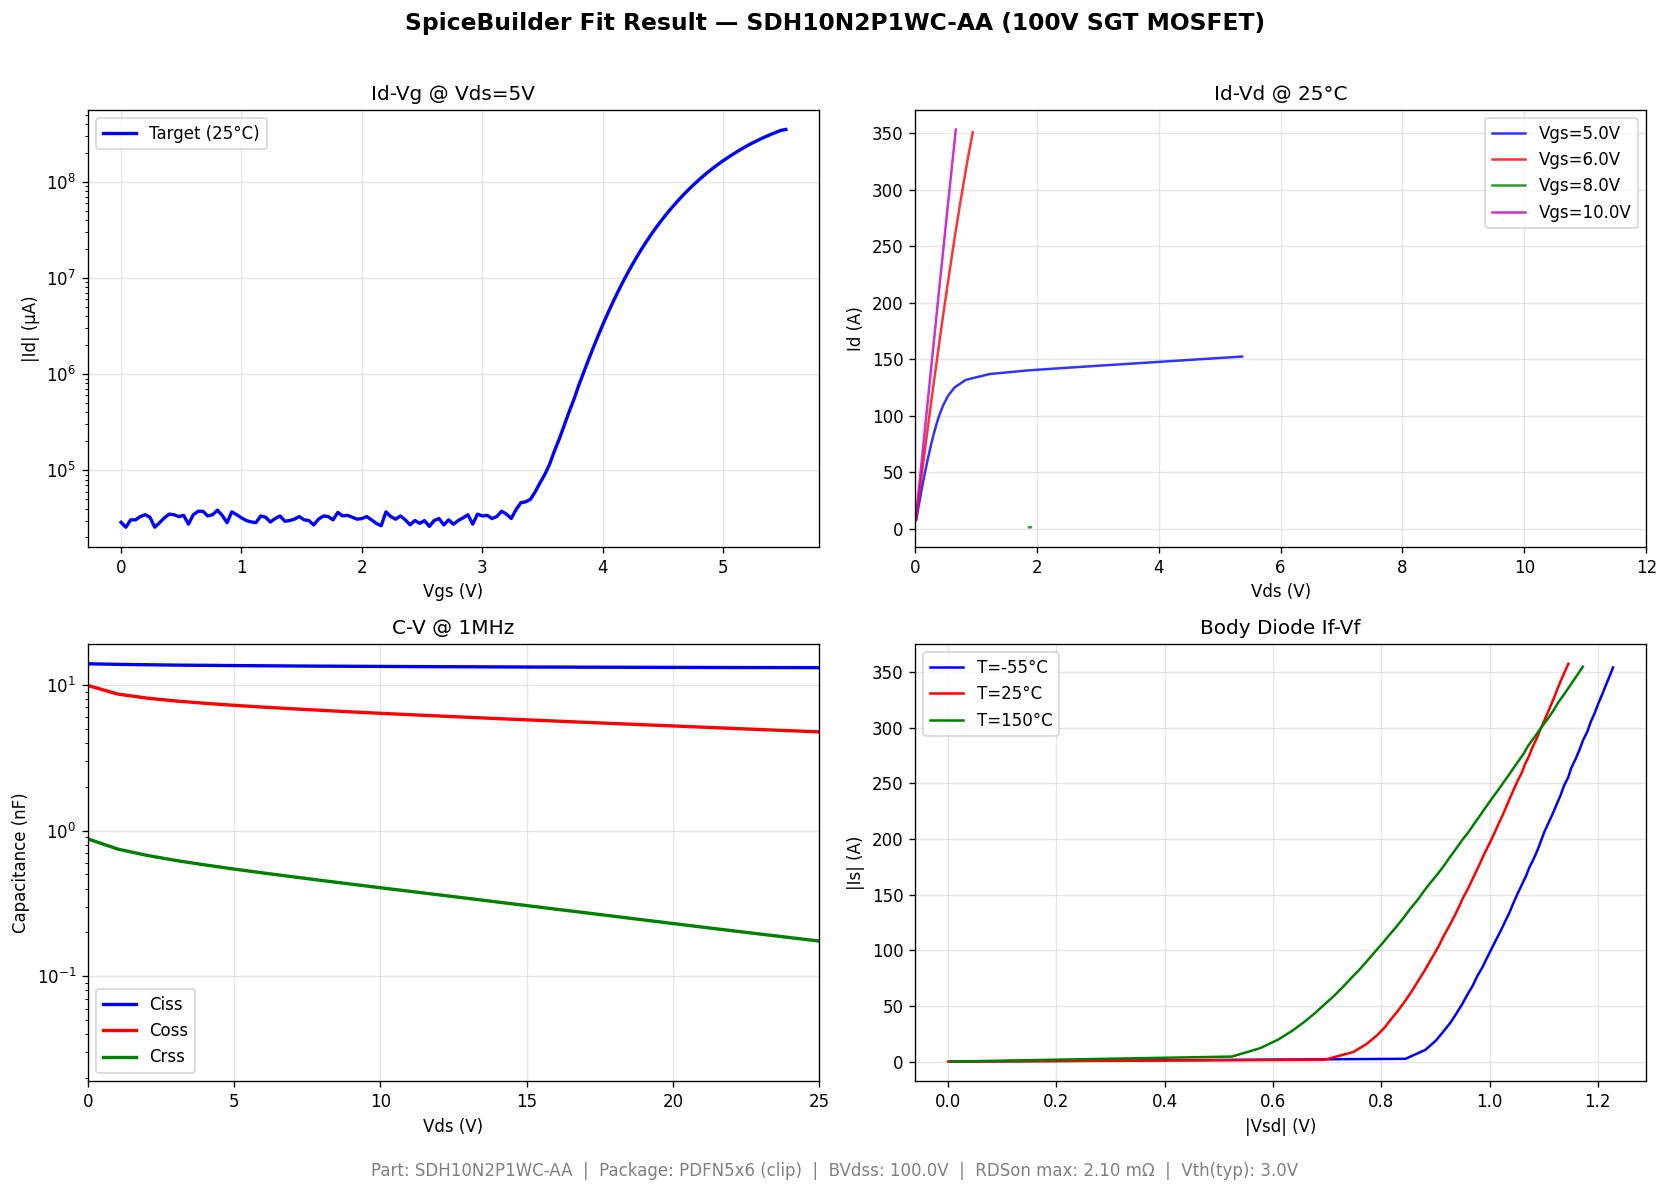
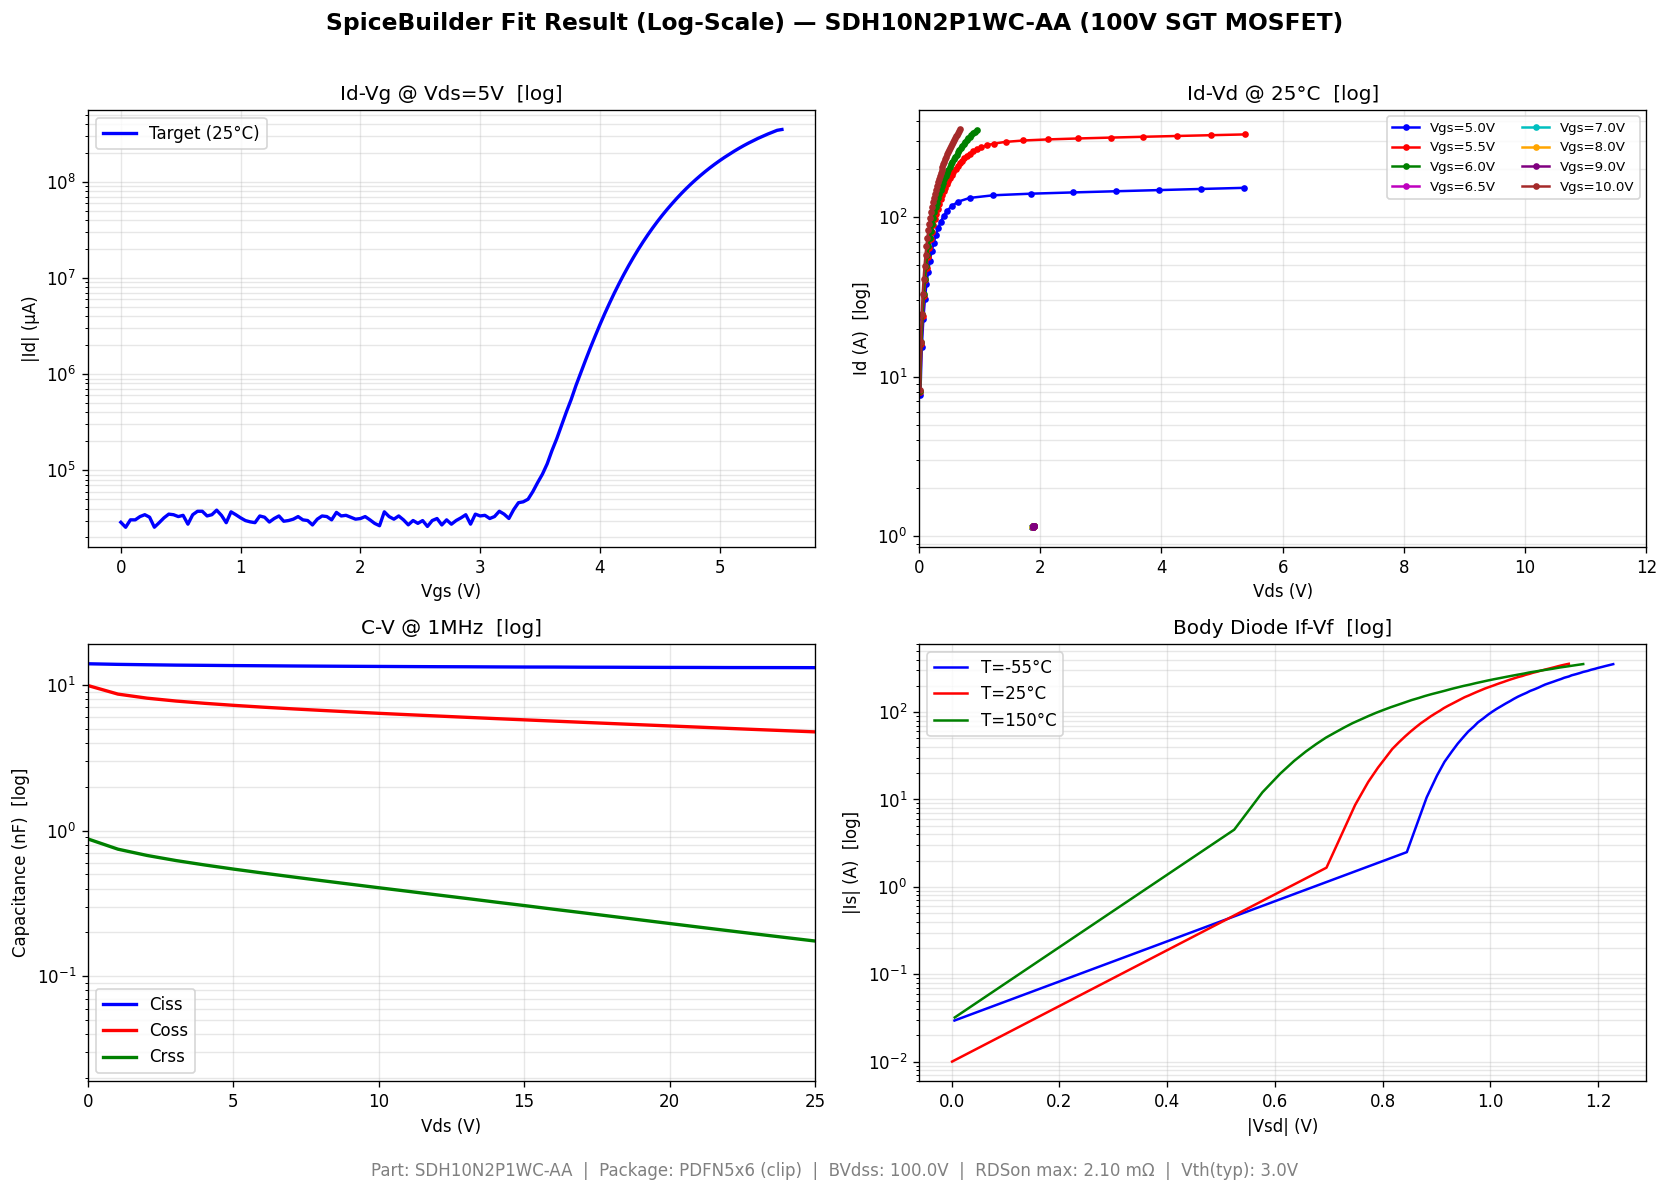
feat(plot): Id-Vd log scale + 3 plot outputs (matplotlib log/lin + plotly HTML)
- fit_comparison.png: 4 subplots, all log scale (Id-Vd now visible)
- fit_comparison_lin.png: 4 subplots, all linear (for absolute value reading)
- fit_comparison.html: Plotly interactive (browser, click to toggle log/linear)
- Id-Vd shows 8 Vgs curves (5/5.5/6/6.5/7/8/9/10V) with full range 0.1A-50A

diff --git a/datademo/fit_comparison.html b/datademo/fit_comparison.html
@@ -1,0 +1,7 @@
+<html>
+<head><meta charset="utf-8" /></head>
+<body>
+    <div style="height:800px; width:1400px;">                        <script>window.PlotlyConfig = {MathJaxConfig: 'local'};</script>
+        <script charset="utf-8" src="https://cdn.plot.ly/plotly-3.6.0.min.js" integrity="sha256-QaOVwtVY0T02VaHrr6pnoHLCwayMJp4O5n4YyaE3rJk=" crossorigin="anonymous"></script>                <div id="8dabb033-190c-4d73-8d53-25cc1f62ac43" class="plotly-graph-div" style="height:100%; width:100%;"></div>            <script>                window.PLOTLYENV=window.PLOTLYENV || {};                                if (document.getElementById("8dabb033-190c-4d73-8d53-25cc1f62ac43")) {                    Plotly.newPlot(                        "8dabb033-190c-4d73-8d53-25cc1f62ac43",                        [{"line":{"color":"blue","width":2},"mode":"lines+markers","name":"Id-Vg@5V","x":{"dtype":"f8","bdata":"AAAAAAAAAAB7FK5H4XqkP3sUrkfherQ\u002fuB6F61G4vj97FK5H4XrEP5qZmZmZmck\u002fuB6F61G4zj\u002fsUbgehevRP3sUrkfhetQ\u002fCtejcD0K1z+amZmZmZnZPylcj8L1KNw\u002fuB6F61G43j+kcD0K16PgP+xRuB6F6+E\u002fMzMzMzMz4z97FK5H4XrkP8P1KFyPwuU\u002fCtejcD0K5z9SuB6F61HoP5qZmZmZmek\u002f4XoUrkfh6j8pXI\u002fC9SjsP3E9CtejcO0\u002fuB6F61G47j8AAAAAAADwP6RwPQrXo\u002fA\u002fSOF6FK5H8T\u002fsUbgehevxP4\u002fC9Shcj\u002fI\u002fMzMzMzMz8z\u002fXo3A9CtfzP3sUrkfhevQ\u002fH4XrUbge9T\u002fD9Shcj8L1P2ZmZmZmZvY\u002fCtejcD0K9z+uR+F6FK73P1K4HoXrUfg\u002f9ihcj8L1+D+amZmZmZn5Pz0K16NwPfo\u002f4XoUrkfh+j+F61G4HoX7Pylcj8L1KPw\u002fzczMzMzM\u002fD9xPQrXo3D9PxSuR+F6FP4\u002fuB6F61G4\u002fj9cj8L1KFz\u002fPwAAAAAAAABAUrgehetRAECkcD0K16MAQPYoXI\u002fC9QBASOF6FK5HAUCamZmZmZkBQOxRuB6F6wFAPQrXo3A9AkCPwvUoXI8CQOF6FK5H4QJAMzMzMzMzA0CF61G4HoUDQNejcD0K1wNAKVyPwvUoBEB7FK5H4XoEQM3MzMzMzARAH4XrUbgeBUBxPQrXo3AFQMP1KFyPwgVAFK5H4XoUBkBmZmZmZmYGQLgehetRuAZACtejcD0KB0Bcj8L1KFwHQK5H4XoUrgdAAAAAAAAACEBSuB6F61EIQKRwPQrXowhA9ihcj8L1CEBI4XoUrkcJQJqZmZmZmQlA7FG4HoXrCUA9CtejcD0KQI\u002fC9ShcjwpA4XoUrkfhCkAzMzMzMzMLQIXrUbgehQtA16NwPQrXC0ApXI\u002fC9SgMQHsUrkfhegxAzczMzMzMDEAfhetRuB4NQHE9CtejcA1Aw\u002fUoXI\u002fCDUAUrkfhehQOQGZmZmZmZg5AuB6F61G4DkAK16NwPQoPQFyPwvUoXA9ArkfhehSuD0AAAAAAAAAQQClcj8L1KBBAUrgehetREEB7FK5H4XoQQKRwPQrXoxBAzczMzMzMEED2KFyPwvUQQB+F61G4HhFASOF6FK5HEUBxPQrXo3ARQJqZmZmZmRFAw\u002fUoXI\u002fCEUDsUbgehesRQBSuR+F6FBJAPQrXo3A9EkBmZmZmZmYSQI\u002fC9ShcjxJAuB6F61G4EkDhehSuR+ESQArXo3A9ChNAMzMzMzMzE0Bcj8L1KFwTQIXrUbgehRNArkfhehSuE0DXo3A9CtcTQAAAAAAAABRAKVyPwvUoFEBSuB6F61EUQHsUrkfhehRApHA9CtejFEDNzMzMzMwUQPYoXI\u002fC9RRAH4XrUbgeFUBI4XoUrkcVQHE9CtejcBVAmpmZmZmZFUDD9Shcj8IVQOxRuB6F6xVAFK5H4XoUFkA="},"y":{"dtype":"f8","bdata":"cq6hJ\u002fR1nT98Jy0igyaaP4vZXF0qQJ8\u002fCKwcWmQ7nz9MN4lBYOWgP\u002ftINSRcrKE\u002fL+jD\u002fUmmoD8OpISqbC+aP9Px8A\u002fgMJ0\u002fTeON6OhhoD97PS5iI+qhP7wgGd0ZqaE\u002f9bHVzc3joD9CTeRleWehP4CT7PZWKpw\u002fL42ryDWooT\u002fg3OYq3C2jPy0FxGFZLqM\u002f9P3UeOkmoT9Ei2zn+6mhPwUfQtrCsqM\u002fg1ArHPVnoT8vB3SLwiydP2XIz5\u002fX7KI\u002fsoHKXWCqoT8FVLfCemOgP3jhsTKRtp4\u002ffPuN7F7GnT+P3xbXNTadPwjY6K9qI6E\u002f3vq10yGkoD+Ajo5qmKKdP80BNinLHaA\u002fgEMdpXQloT9VtoB2mDeeP1NN5XV6u54\u002fXFh\u002fzpjCnz\u002fTWoRVeeWgP\u002fu9ZDfIO58\u002fbYNWDTq8nj+W6Yb9dqebP\u002foXCcvHwJ8\u002f7X4sESYloT8jEQEb8uagPwmYcN7tPp8\u002f7yHWwQaroj\u002fDC97PuSWhP5DvPTjcZ6E\u002fwrL33\u002fSeoD+hvmc8CcCfP8NcCaDXHaA\u002fmXSvB5fkoD+yHLYdyTufP3npJjEIrJw\u002fiUFg5dAimz+d5lQ5gO6iP0Zx6rFq46A\u002f8qj+3M7Anz\u002f0\u002fdR46SahPx7JmLBdPZ8\u002fZXALRSu5mz8Ztj2tlcKePyvlQiAhtpw\u002fChQeBC21nj86q\u002fv4yK6aP+kQfJSBuZ4\u002fVOOlm8QgoD+d9wvNpqibP0p2k7nJO58\u002fcfXusf4mnD8E8cP3OcOeP5xIWy8uY6A\u002fv01TLxmpoT\u002fXZvapGiycP31tyswl6aE\u002f9P3UeOkmoT+cxCCwcmihP3QiifJPIqA\u002fSYlVjI7moD8zMzMzMzOjPwwlhHWL6qE\u002f0BYkNDIloD9gxDCx3fOjP6Zyri25jKc\u002f3SRTWeQPqD+KKTUad5apP7gehetRuK4\u002fUJAqwccOsz9ZdNSiVU+3P0l23baz570\u002ffTcIZoCOxD+HFtnO91PLP42XbhKDwNI\u002f3aUmNPXd2T8mO7IqaGvhP1rwiSO9Vug\u002f37uJvvqC8D+rIxLG0VH2P64E34C49P0\u002fhlaLx4\u002fbA0BLDBYkhiMKQJDfx8qk\u002fhBAjmCiv5PVFUDyEefB980bQO3O1hLAfCFA3Gv2ZEvFJUDImDFJvtUqQNg+d44fXjBAFozffcnJM0B4YdsotK83QMryGhGyHDxA0R9lXECLQEBBIMDW7FBDQGE7fic3YUZAyXa+nxq\u002fSUD0HV5MgmlNQNWjRx4kuVBAx3rb5pzlUkDMwVct6TlVQPs6cM6ItldAE4tcHhhXWkDK1jdKcB1dQMAZkZJEBGBAmhNPgciJYUD3pbMsUh5jQKITsY7XwWRAmG4Sg8ByZkDbLny7jypoQJ8CYDyD\u002fGlAkOackI7Ua0BvY81qCbRtQDFfeCltlW9AEU0YGGe8cECYIf++U7JxQAWmU4sro3JAOVF1wYaVc0ApItVJ04d0QEsOy6vLd3VAexSuR+HkdUA="},"type":"scatter","xaxis":"x","yaxis":"y"},{"line":{"width":1.5},"mode":"lines+markers","name":"Vgs=5.0V","x":{"dtype":"f8","bdata":"dy0hH\u002fRslj9vgQTFjzGnP7WmeccpOrI\u002fb\u002fCFyVTBuD9PHhZqTfO+P9CzWfW52sI\u002fZDvfT42Xxj+PwvUoXI\u002fKP2Dl0CLb+c4\u002fZRniWBe30T+X\u002f5B++zrUPwMJih9j7tY\u002fPzVeukkM2j\u002fkg57Nqs\u002fdP\u002f+ye\u002fKwUOE\u002fb\u002fCFyVTB5D9fKcsQx7rqP7snDwu1pvM\u002fYTJVMCqp\u002fT\u002fy0k1iEFgEQDnWxW00AApAsVBrmnecD0CGyVTBqKQSQH6MuWsJeRVA"},"y":{"dtype":"f8","bdata":"LbKd76fGHkBqvHSTGMQuQD0K16NwDTdAwcqhRbajPkBYObTIdu5CQOOlm8QggEZA9P3UeOl2SkD8qfHSTXpOQIGVQ4tsQ1FABFYOLbJNU0CWQ4ts51NVQAaBlUOLXFdAhetRuB5hWUACK4cW2WJbQO58PzVeWl1A2\u002fl+arw8X0AzMzMzM3dgQKAaL90kHGFAhxbZzveBYUB3vp8aL9NhQCUGgZVDIWJAf2q8dJNuYkBt5\u002fup8bxiQL6fGi\u002fdCmNA"},"type":"scatter","xaxis":"x2","yaxis":"y2"},{"line":{"width":1.5},"mode":"lines+markers","name":"Vgs=6.0V","x":{"dtype":"f8","bdata":"xf6ye\u002fKwkD\u002fXNO84RUeiP1dbsb\u002fsnqw\u002f8BZIUPwYsz\u002ftDb4wmSq4P\u002fvL7snDQr0\u002f0m9fB84ZwT8v3SQGgZXDP2iR7Xw\u002fNcY\u002f1sVtNIC3yD\u002fdJAaBlUPLP7AD54wo7c0\u002fW7G\u002f7J480D8bL90kBoHRP8Dsnjws1NI\u002fzH9Iv30d1D+Sy39Iv33VP4SezarP1dY\u002fzH9Iv30d2D8bL90kBoHZP5VliGNd3No\u002fS+oENBE23D\u002fV52or9pfdP5wzorQ3+N4\u002f001iEFg54D+YTBWMSurgP9nO91PjpeE\u002fzTtO0ZFc4j8OvjCZKhjjP23n+6nx0uM\u002fFD\u002fG3LWE5D83GsBbIEHlP2q8dJMYBOY\u002fRGlv8IXJ5j94CyQofoznP+viNhrAW+g\u002fQBNhw9Mr6T\u002fEsS5uowHqPyfChqdXyuo\u002fqmBUUieg6z\u002fpt68D54zsPxdIUPwYc+0\u002fCYofY+5a7j8="},"y":{"dtype":"f8","bdata":"aJHtfD9VIECsHFpkO18wQPp+arx0kzhA6SYxCKxkQECuR+F6FH5EQN9PjZdumkhA8tJNYhC4TEBmZmZmZmpQQPLSTWIQeFJAqMZLN4mFVEC+nxov3ZRWQPyp8dJNolhAx0s3iUGwWkC0yHa+n75cQDm0yHa+y15AWmQ7309tYEAAAAAAAHRhQCUGgZVDe2JABFYOLbKBY0A730+Nl4hkQKRwPQrXj2VAZmZmZmaWZkCmm8QgsJxnQD0K16Nwo2hAVg4tsp2paUA1XrpJDLBqQGQ730+NtWtARIts5\u002fu7bEDJdr6fGsFtQHe+nxovxW5AhetRuB7Bb0CkcD0K119wQD81XrpJ4XBAJQaBlUNgcUA5tMh2vuJxQK5H4XoUZXJA30+Nl27nckBaZDvfT2lzQD81XrpJ53NAYOXQIttodEAbL90kBux0QKwcWmQ7bnVAEoPAyqHwdUA="},"type":"scatter","xaxis":"x2","yaxis":"y2"},{"line":{"width":1.5},"mode":"lines+markers","name":"Vgs=8.0V","x":{"dtype":"f8","bdata":"XyvM42jy\u002fT\u002fTe5+9S\u002fj9P1euwaLF+f0\u002f59xxvCQA\u002fj+N8d+RagL+P\u002fDfdd5yEf4\u002fdJMj5DQU\u002fj9O54oDGhz+P0iaQDwOH\u002f4\u002f2AbINUUi\u002fj8fcPL1ACj+P9Z8Ws8ON\u002f4\u002f+o5lbho4\u002fj9uvZFzmT3+P6NV7EpUR\u002f4\u002fbWuXG6hN\u002fj\u002feK2HXWlv+Pw=="},"y":{"dtype":"f8","bdata":"c+jyfc9Q8j\u002f\u002fO7cWaVTyP8i2BjZQVfI\u002ftNmfzDVZ8j8lQ8OmmVryP0Gj1UnLY\u002fI\u002fMyBBGHtl8j+rb\u002fA4T2ryP655G7sdbPI\u002fRrLfEBVu8j8NH7C\u002flnHyPz53vcfLevI\u002fWqJmdW978j\u002fnv5r\u002fy37yP7ZeeWi\u002fhPI\u002fsoAiGJ6I8j+Y8gXU\u002fpDyPw=="},"type":"scatter","xaxis":"x2","yaxis":"y2"},{"line":{"width":1.5},"mode":"lines+markers","name":"Vgs=10.0V","x":{"dtype":"f8","bdata":"U5YhjnVxiz9cIEHxY8ydP1afq63YX6Y\u002fVHQkl\u002f+Qrj+HFtnO91OzP4BIv30dOLc\u002f3SQGgZVDuz8Zc9cS8kG\u002fPyL99nXgnME\u002fuECC4seYwz+Sy39Iv33FP2sr9pfdk8c\u002fM8SxLm6jyT90JJf\u002fkH7LPzy9UpYhjs0\u002fn6ut2F92zz\u002f4U+Olm8TQP\u002f5D+u3rwNE\u002fjZduEoPA0j9pAG+BBMXTP\u002fhT46WbxNQ\u002fduCcEaW91T\u002fJ5T+k377WP5SHhVrTvNc\u002f1sVtNIC32D9UUiegibDZPzC7Jw8Ltdo\u002fcvkP6bev2z9OYhBYObTcPwg9m1Wfq90\u002f46WbxCCw3j82qz5XW7HfP6+UZYhjXeA\u002f7lpCPujZ4D96Nqs+V1vhP4GVQ4ts5+E\u002fGlHaG3xh4j+YTBWMSuriP21Wfa62YuM\u002fY+5aQj7o4z8730+Nl27kP3qlLEMc6+Q\u002fvVKWIY515T8="},"y":{"dtype":"f8","bdata":"arx0kxhkIEBU46WbxHAwQDvfT42XrjhAg8DKoUV2QECgGi\u002fdJJZEQFpkO99PtUhArBxaZDvXTEBiEFg5tHxQQFyPwvUojFJAkxgEVg6dVECamZmZma1WQNnO91PjvVhAH4XrUbjOWkD8qfHSTd5cQJhuEoPA7l5ASOF6FK5\u002fYEAOLbKd74dhQMHKoUW2j2JA\u002fKnx0k2YY0CR7Xw\u002fNaBkQCuHFtnOp2VA5\u002fup8dKvZkDdJAaBlbdnQG3n+6nxvmhA0SLb+X7EaUDfT42XbsJqQEjhehSuz2tA\u002fKnx0k3GbEAtsp3vp8xtQNNNYhBY025AEoPAyqHZb0Cmm8QgsHBwQMP1KFyP+HBAL90kBoF1cUDRItv5fvxxQCPb+X5qhHJAAAAAAAACc0CLbOf7qYlzQI\u002fC9ShcCHRA2\u002fl+aryLdEArhxbZzg51QGZmZmZmknVAd76fGi8XdkA="},"type":"scatter","xaxis":"x2","yaxis":"y2"},{"line":{"color":"blue","width":2},"mode":"lines+markers","name":"Ciss","x":{"dtype":"f8","bdata":"Gy\u002fdJAaBpT\u002f6fmq8dJPwP30\u002fNV66SQBAfT81XrpJCEC+nxov3SQQQKRwPQrXIxRAiUFg5dAiGECJQWDl0CIcQMUgsHJoESBAN4lBYOUQIkA3iUFg5RAkQDeJQWDlECZAqvHSTWIQKECq8dJNYhAqQB1aZDvfDyxAHVpkO98PLkAOLbKd7wcwQA4tsp3vBzFASOF6FK4HMkBI4XoUrgczQEjhehSuBzRASOF6FK4HNUCBlUOLbAc2QIGVQ4tsBzdAgZVDi2wHOED0\u002fdR46QY5QPT91HjpBjpA9P3UeOkGO0Atsp3vpwY8QC2yne+nBj1ALbKd76cGPkAtsp3vpwY\u002fQBfZzvdTA0BAMzMzMzODQEBQjZduEgNBQFCNl24Sg0FAUI2XbhIDQkBQjZduEoNCQG3n+6nxAkNAbef7qfGCQ0Bt5\u002fup8QJEQKabxCCwgkRAiUFg5dACRUCmm8QgsIJFQKabxCCwAkZAppvEILCCRkDD9ShcjwJHQKabxCCwgkdAw\u002fUoXI8CSEDD9Shcj4JIQN9PjZduAklA\u002fKnx0k2CSUD8qfHSTQJKQPyp8dJNgkpAGQRWDi0CS0AZBFYOLYJLQBkEVg4tAkxAGQRWDi2CTEA1XrpJDAJNQDVeukkMgk1ANV66SQwCTkBSuB6F64FOQFK4HoXrAU9AbxKDwMqBT0A3iUFg5QBQQDeJQWDlQFBAN4lBYOWAUEBU46WbxMBQQEa28\u002f3UAFFAVOOlm8RAUUBU46WbxIBRQFTjpZvEwFFAYhBYObQAUkBU46WbxEBSQGIQWDm0gFJAYhBYObTAUkBxPQrXowBTQH9qvHSTQFNAcT0K16OAU0B\u002farx0k8BTQH9qvHSTAFRAf2q8dJNAVEB\u002farx0k4BUQJzEILBywFRAjZduEoMAVUCcxCCwckBVQKrx0k1igFVAqvHSTWLAVUCq8dJNYgBWQKrx0k1iQFZAuB6F61GAVkC4HoXrUcBWQMdLN4lBAFdA1XjpJjFAV0DVeOkmMYBXQOOlm8QgwFdA46WbxCAAWEDjpZvEIEBYQPLSTWIQgFhAAAAAAADAWEAOLbKd7\u002f9YQA=="},"y":{"dtype":"f8","bdata":"3tBnqkE\u002fy0CpMgNKawDLQKshk0It1spApY6nSBmuykDVXATjBpbKQDo0Xc1RfMpAPa3EO5VnykBE1lVjTVHKQCxztVyhP8pAR04sVf8vykBiArjK8iHKQCEcnFkmE8pA642i26MFykCC6xkg+PzJQNLZjpCs7slAYI\u002fq1B7jyUDMfCp3Hd\u002fJQLI\u002fqGHM0clAqVZPhEvMyUA3otH\u002ftsLJQJHhCDxOu8lAQwWKZn22yUD2VEZ83KzJQETWwn8hqslAcCKfHNymyUCjuUhcDqHJQCrr\u002fiN6m8lA0HOcXweWyUAqdUwDppTJQP5gr3sckslAZv8WPWeOyUAfLvP9LIfJQG0QfoqIi8lAr9FVpvGFyUBvigPbpILJQLw545L4f8lA02si2Gp+yUBseZmMuXzJQIE6OIyOeclAWpvI4DR7yUCgWdjr83bJQC9b7WyxdMlAo25y\u002f3l2yUARaHS0Z3LJQEFuT+hLcMlAp6UxkiJuyUAndUyVKG\u002fJQHqYZtDFbclA5WF9eYlryUC6Eez5uGvJQDwmKMgJaslADCLl9vJoyUAA0DyT0GfJQEbnMfDSZMlAJt30mdJmyUDPxWvufWbJQBHqzyo8ZslA5rqWmH5kyUCdTSpmWmTJQJEEeMsaY8lAnutij0hjyUDmyxKzbWDJQG\u002fVv8xUY8lAYPSGKyliyUAz\u002fDK3RWHJQBs4KIlnY8lAwIldxQpeyUBZ2HCtnF\u002fJQHZ1Ife5X8lAlvMgOIpeyUAyKfjk2l7JQENxdQ8iXslAJFSGGLpdyUAIhaQxSFrJQGu1MDjvXclA8st8AYdZyUASpy994FzJQN6QztH+W8lADK2Rj5FbyUARiFuuhlvJQHkYqohtW8lArxgjqqBayUAnNAo\u002fr1nJQDB2VLP8V8lA5CEf+v1YyUAqcRRW6VnJQEYdlRMUWclA29X\u002fp\u002ftXyUDZjLWag1jJQJDZcBBrWMlAfA4Rd\u002fVYyUBSk6zA5VjJQAm4nZ6QV8lA2Wd7gBZXyUAsudniF1fJQHPZ7JAlVMlANi8pI8RVyUCgjoTLzFXJQLk46wl5V8lA9ufWV3dSyUAJDXO01lbJQA=="},"type":"scatter","xaxis":"x3","yaxis":"y3"},{"line":{"color":"red","width":2},"mode":"lines+markers","name":"Coss","x":{"dtype":"f8","bdata":"Gy\u002fdJAaBpT\u002f6fmq8dJPwP30\u002fNV66SQBAfT81XrpJCEC+nxov3SQQQKRwPQrXIxRAiUFg5dAiGECJQWDl0CIcQMUgsHJoESBAN4lBYOUQIkA3iUFg5RAkQDeJQWDlECZAqvHSTWIQKECq8dJNYhAqQB1aZDvfDyxAHVpkO98PLkAOLbKd7wcwQA4tsp3vBzFASOF6FK4HMkBI4XoUrgczQEjhehSuBzRASOF6FK4HNUCBlUOLbAc2QIGVQ4tsBzdAgZVDi2wHOED0\u002fdR46QY5QPT91HjpBjpA9P3UeOkGO0Atsp3vpwY8QC2yne+nBj1ALbKd76cGPkAtsp3vpwY\u002fQBfZzvdTA0BAMzMzMzODQEBQjZduEgNBQFCNl24Sg0FAUI2XbhIDQkBQjZduEoNCQG3n+6nxAkNAbef7qfGCQ0Bt5\u002fup8QJEQKabxCCwgkRAiUFg5dACRUCmm8QgsIJFQKabxCCwAkZAppvEILCCRkDD9ShcjwJHQKabxCCwgkdAw\u002fUoXI8CSEDD9Shcj4JIQN9PjZduAklA\u002fKnx0k2CSUD8qfHSTQJKQPyp8dJNgkpAGQRWDi0CS0AZBFYOLYJLQBkEVg4tAkxAGQRWDi2CTEA1XrpJDAJNQDVeukkMgk1ANV66SQwCTkBSuB6F64FOQFK4HoXrAU9AbxKDwMqBT0A3iUFg5QBQQDeJQWDlQFBAN4lBYOWAUEBU46WbxMBQQEa28\u002f3UAFFAVOOlm8RAUUBU46WbxIBRQFTjpZvEwFFAYhBYObQAUkBU46WbxEBSQGIQWDm0gFJAYhBYObTAUkBxPQrXowBTQH9qvHSTQFNAcT0K16OAU0B\u002farx0k8BTQH9qvHSTAFRAf2q8dJNAVEB\u002farx0k4BUQJzEILBywFRAjZduEoMAVUCcxCCwckBVQKrx0k1igFVAqvHSTWLAVUCq8dJNYgBWQKrx0k1iQFZAuB6F61GAVkC4HoXrUcBWQMdLN4lBAFdA1XjpJjFAV0DVeOkmMYBXQOOlm8QgwFdA46WbxCAAWEDjpZvEIEBYQPLSTWIQgFhAAAAAAADAWEAOLbKd7\u002f9YQA=="},"y":{"dtype":"f8","bdata":"XqIOWuQ6w0AkUzgjF+DAQGnmtI3ipr9AOYcrpN08vkAC0luq9Si9QBxEMitcPbxAJNys+hBxu0BgvBNeQ7y6QFqAQ0YOFbpAUdIFbKh4uUCLgaQuz+W4QEs4XkQGXrhALa4igcjdt0Ak7RcLtGC3QHvEhS8T6LZAo5Qkjw92tkD7YubEgwW2QLcN+oWEmbVAxvaJI64utUAE9uFwx8e0QEvZD01hZLRAhNSNMAYDtEAcSZ823aCzQCNWpjG9Q7NA+XWLjo\u002fqskDZQYcJUpGyQPUubBDRNrJAzQm+pdXksUD4AdT5cJCxQB8mFghlPbFAN5ZvCxPvsEAaJclNhJ2wQEU5nClZULBAhFQth0YFsEDSa\u002fBf\u002f3SvQD1DxWsQ4K5A\u002fzvG9MpNrkAr8lRFar2tQO456oVTLq1AmcV+LQuirEBEkSIW+BOsQPKCRal4jqtAfLbbcAcAq0C\u002fvuEHwHuqQGmMfYP576lA7oNveA5rqUA07vZEQ+GoQCK03tcXWqhATNeWz4vSp0Bkrqk0Zk6nQKJJfLWOx6ZAMK4meBFCpkA22ErP2b6lQCpa+i9tPaVAarkyTde5pEDVycb4gTqkQJaz3TUEvaNAfjj5FcJCo0DGdCve5cyiQJm5gVdmXKJAtSuYjYHvoUBrbwRL3ImhQFw+ZkM1JqFAB6idl47OoEAKxHcHRnmgQJs+rwpQKKBAZaUlll+\u002fn0AcU0N3PDifQBR6kyewuJ5A5YCQdZhAnkCzMdNiD86dQOGylyAGZZ1Ax0W7W5wCnUBCFcxHsaWcQLK48VjnTZxAAAIbwU75m0A0bsxRbKqbQE1ooW3hYJtAUfQMyzUam0CcQaxQjNiaQIlTHukwlZpA8Zic+plWmkD+2pquYR2aQGF2jK2r5plAS+7\u002fHPOwmUAr9Jo7eHuZQOs1zqtIRZlAcNFbp04UmUBUCt5mGOaYQAfe5Bnou5hAUlfi1imRmEBBeCBT7mWYQMn45XTrO5hAGL6nZu0SmEDzNPPSDO6XQOCnSRHrxpdA5bij0Sqil0AIpARrRX6XQAFjP09QWpdAXeumAZY6l0Ct1IdaUReXQA=="},"type":"scatter","xaxis":"x3","yaxis":"y3"},{"line":{"color":"green","width":2},"mode":"lines+markers","name":"Crss","x":{"dtype":"f8","bdata":"Gy\u002fdJAaBpT\u002f6fmq8dJPwP30\u002fNV66SQBAfT81XrpJCEC+nxov3SQQQKRwPQrXIxRAiUFg5dAiGECJQWDl0CIcQMUgsHJoESBAN4lBYOUQIkA3iUFg5RAkQDeJQWDlECZAqvHSTWIQKECq8dJNYhAqQB1aZDvfDyxAHVpkO98PLkAOLbKd7wcwQA4tsp3vBzFASOF6FK4HMkBI4XoUrgczQEjhehSuBzRASOF6FK4HNUCBlUOLbAc2QIGVQ4tsBzdAgZVDi2wHOED0\u002fdR46QY5QPT91HjpBjpA9P3UeOkGO0Atsp3vpwY8QC2yne+nBj1ALbKd76cGPkAtsp3vpwY\u002fQBfZzvdTA0BAMzMzMzODQEBQjZduEgNBQFCNl24Sg0FAUI2XbhIDQkBQjZduEoNCQG3n+6nxAkNAbef7qfGCQ0Bt5\u002fup8QJEQKabxCCwgkRAiUFg5dACRUCmm8QgsIJFQKabxCCwAkZAppvEILCCRkDD9ShcjwJHQKabxCCwgkdAw\u002fUoXI8CSEDD9Shcj4JIQN9PjZduAklA\u002fKnx0k2CSUD8qfHSTQJKQPyp8dJNgkpAGQRWDi0CS0AZBFYOLYJLQBkEVg4tAkxAGQRWDi2CTEA1XrpJDAJNQDVeukkMgk1ANV66SQwCTkBSuB6F64FOQFK4HoXrAU9AbxKDwMqBT0A3iUFg5QBQQDeJQWDlQFBAN4lBYOWAUEBU46WbxMBQQEa28\u002f3UAFFAVOOlm8RAUUBU46WbxIBRQFTjpZvEwFFAYhBYObQAUkBU46WbxEBSQGIQWDm0gFJAYhBYObTAUkBxPQrXowBTQH9qvHSTQFNAcT0K16OAU0B\u002farx0k8BTQH9qvHSTAFRAf2q8dJNAVEB\u002farx0k4BUQJzEILBywFRAjZduEoMAVUCcxCCwckBVQKrx0k1igFVAqvHSTWLAVUCq8dJNYgBWQKrx0k1iQFZAuB6F61GAVkC4HoXrUcBWQMdLN4lBAFdA1XjpJjFAV0DVeOkmMYBXQOOlm8QgwFdA46WbxCAAWEDjpZvEIEBYQPLSTWIQgFhAAAAAAADAWEAOLbKd7\u002f9YQA=="},"y":{"dtype":"f8","bdata":"T3Psdcwzi0CZ4WtfS0aHQD+Am2b\u002fE4VAhyuVOthvg0A9l+oijByCQM87ZHf59YBA5X2WDo\u002fjf0Bm4vtnkwp+QLPpOvtnU3xA2UflYlrAekBUBkXNlEN5QGJWyjpy4ndALKXbzTiTdkDhPteQdVl1QGaFSttnKHRA95NWHPkQc0CaPgO7WP9xQBFujcKaBXFAw5tlTA0VcED9v3k2S2JuQJMuDge4tWxAhEZGQekga0BoLLd3lqhpQPYUkJLrR2hAkTYoTdr8ZkAh4CvqUcRlQAaEnt1pmmRAllmoVC2MY0CpanU\u002fqZBiQCxcVTkHo2FABRdJukjDYECSi6hpveZfQOYe\u002frOQYV5AtWFjNIbxXED51EDIL4tbQFeQ7ZfISlpAENtHBdkUWUC9Fc5ake5XQEoFKINo41ZApTCacP7nVUDhWEc+nfdUQEZYsfjFD1RAzTVyKwYxU0BtK4avP1tSQE5sRgdxmlFAPWIVYOXeUEDy7cxMfS1QQL7IiyEjDU9A03lR2zXGTUBy\u002fpAnHp1MQCome+SJW0tAqgfPWaRhSkAJ9Xa472BJQHaPlpluckhAX6EbOBCbR0A7CXT0LsBGQIxoVzBU80VAhpwVbLElRUAWOIGSKJ9EQItLGWQY+0NAurV2kWlbQ0Dqn+HEk+NCQOLnZiPBVUJApW4\u002fGh7uQUDXtasERKJBQPF3jSVrWkFAHPt0c6XwQEB6rE3cNrlAQHvRUDl+b0BAeHtvSV8nQEDM5X7vp\u002f4\u002fQHG4TqOZdz9AmmY8XocwP0A60OLzJck+QAu1b6dZeD5A0fnSsgNCPkATfOx\u002f19I9QBaCz\u002fPhiz1AdyAGFWRFPUCpBV5qEgc9QCGefA\u002fFBT1Awzguv53EPEDWamuPtKg8QDFRwkqQXzxAIgjESAYkPEBJEDI279s7QEjFDJPqpTtAnxbZYqOBO0BAYFkNNGI7QC1l5g3kWjtAFAZjH\u002fwXO0B7RlEhZwE7QMcWrT3c8DpAmPjuDGa8OkA0M2YEcrI6QPCLr9fHsDpAfld3I9VgOkC5w2tDhUk6QGiCV1\u002fuHDpA4\u002fH\u002fU077OUAuTvyeKPE5QA=="},"type":"scatter","xaxis":"x3","yaxis":"y3"},{"line":{"color":"blue","width":1.5},"mode":"lines+markers","name":"T=-55°C","x":{"dtype":"f8","bdata":"iIVa07zjdD8ofoy5awnrPy1DHOviNuw\u002f3pOHhVrT7D+DL0ymCkbtP921hHzQs+0\u002fBOeMKO0N7j\u002fAWyBB8WPuPwFNhA1Pr+4\u002fNV66SQwC7z\u002fdJAaBlUPvP2sr9pfdk+8\u002f9UpZhjjW7z+x4emVsgzwPzojSnuDL\u002fA\u002fpb3BFyZT8D9qTfOOU3TwP6CJsOHplfA\u002f+1xtxf6y8D+oNc07TtHwP23F\u002frJ78vA\u002fwaikTkAT8T92cRsN4C3xPx1aZDvfT\u002fE\u002f6Nms+lxt8T9JnYAmwobxPzm0yHa+n\u002fE\u002fHOviNhrA8T87cM6I0t7xPySX\u002f5B++\u002fE\u002fQxzr4jYa8j9vgQTFjzHyP\u002fjCZKpgVPI\u002ffh04Z0Rp8j+0WfW52oryPw4tsp3vp\u002fI\u002fw\u002fUoXI\u002fC8j\u002f5MeauJeTyP3icoiO5\u002fPI\u002fQxzr4jYa8z+GONbFbTTzP+ELk6mCUfM\u002f6Nms+lxt8z\u002fSAN4CCYrzP9nO91PjpfM\u002f"},"y":{"dtype":"f8","bdata":"aJHtfD81nj97FK5H4foDQBsv3SQGISVAx0s3iUHAMkDVeOkmMfg6QPp+arx0m0FA30+Nl266RUBGtvP91NhJQI2XbhKD+E1A+n5qvHQLUUDn+6nx0hlTQHE9CtejKFVA7nw\u002fNV4uV0B1kxgEVi5ZQOXQItv5OltAMQisHFpIXUBU46WbxFhfQMuhRbbztWBAZDvfT429YUDfT42XbsRiQClcj8L1zGNAQmDl0CLPZEArhxbZztFlQJ7vp8ZL02ZA16NwPQrVZ0ACK4cW2dhoQD0K16Nw1WlArkfhehTeakCwcmiR7dxrQARWDi2y4WxA5dAi2\u002fnubUA5tMh2vutuQEw3iUFg929A2c73U+N5cECq8dJNYv1wQC\u002fdJAaBfnFAZmZmZmYIckBU46WbxIdyQGIQWDm0DnNAK4cW2c6Lc0Bt5\u002fup8Q90QI2XbhKDkXRAXI\u002fC9SgXdUDhehSuR5p1QFTjpZvEH3ZA"},"type":"scatter","xaxis":"x4","yaxis":"y4"},{"line":{"color":"red","width":1.5},"mode":"lines+markers","name":"T=25°C","x":{"dtype":"f8","bdata":"x7q4jQbwRj9seHqlLEPmP0ku\u002fyH99uc\u002f54wo7Q2+6D\u002fDZKpgVFLpP1wgQfFjzOk\u002fz2bV52or6j9UdCSX\u002f5DqPz9XW7G\u002f7Oo\u002fGXPXEvJB6z+J0t7gC5PrP8rDQq1p3us\u002fkxgEVg4t7D+mm8QgsHLsP18pyxDHuuw\u002fUwWjkjoB7T9E+u3rwDntP+zAOSNKe+0\u002fduCcEaW97T+mCkYldQLuP3lYqDXNO+4\u002f8rBQa5p37j9fKcsQx7ruP36MuWsJ+e4\u002fMzMzMzMz7z9xPQrXo3DvP3\u002fZPXlYqO8\u002fnzws1Jrm7z9Q\u002fBhz1xLwPwXFjzF3LfA\u002fuY0G8BZI8D\u002f1udqK\u002fWXwP\u002f2H9NvXgfA\u002fIv32deCc8D9HcvkP6bfwP09AE2HD0\u002fA\u002fwcqhRbbz8D9d3EYDeAvxP+0NvjCZKvE\u002fbHh6pSxD8T\u002f8qfHSTWLxPz\u002fG3LWEfPE\u002f1edqK\u002faX8T\u002fdtYR80LPxPwIrhxbZzvE\u002fRUdy+Q\u002fp8T9TBaOSOgHyPwfOGVHaG\u002fI\u002fnu+nxks38j\u002f4wmSqYFTyPw=="},"y":{"dtype":"f8","bdata":"exSuR+F6hD+F61G4HoX6PzvfT42XTiFA6SYxCKy8L0AZBFYOLSI3QIXrUbgedT5AoBov3STmQkAlBoGVQ5NGQOOlm8QgQEpAke18PzXuTUAEVg4tss1QQH9qvHSTpFJALbKd76d6VEAxCKwcWlBWQBSuR+F6JFhAXI\u002fC9Sj4WUB1kxgEVrZbQGiR7Xw\u002fgV1AjZduEoNMX0B\u002farx0k6ZgQMdLN4lBimFAgZVDi2yBYkA730+Nl2xjQL6fGi\u002fdYmRABoGVQ4tOZUBU46WbxEJmQBkEVg4tMGdA8KfGSzcfaEBkO99PjQ9pQFK4HoXr8WlA16NwPQrPakC6SQwCK8NrQNV46SYxvmxAbef7qfGsbUCDwMqhRZJuQClcj8L1gG9AnMQgsHI2cEAMAiuHFq5wQE5iEFg5J3FAPQrXo3CgcUBMN4lBYBlyQNnO91PjkXJAtvP91HgLc0DByqFFtoNzQGiR7Xw\u002f+3NAUI2XbhJydEC4HoXrUep0QLbz\u002fdR4Y3VAg8DKoUXcdUAK16NwPVV2QA=="},"type":"scatter","xaxis":"x4","yaxis":"y4"},{"line":{"color":"green","width":1.5},"mode":"lines+markers","name":"T=150°C","x":{"dtype":"f8","bdata":"x7q4jQbwdj+At0CC4sfgPy7\u002fIf32deI\u002fZ0Rpb\u002fCF4z+8dJMYBFbkPyh+jLlrCeU\u002fRIts5\u002fup5T+X\u002f5B++zrmP5F++zpwzuY\u002f4QuTqYJR5z8+eVioNc3nP+f7qfHSTeg\u002fNKK0N\u002fjC6D8VjErqBDTpP52AJsKGp+k\u002f9wZfmEwV6j\u002fY8PRKWYbqP+VhodY07+o\u002f4QuTqYJR6z9YObTIdr7rP+kmMQisHOw\u002fbjSAt0CC7D9d\u002fkP67evsPx1aZDvfT+0\u002fYTJVMCqp7T\u002fVeOkmMQjuP6K0N\u002fjCZO4\u002fJ8KGp1fK7j+n6Egu\u002fyHvP3Qkl\u002f+Qfu8\u002fm1Wfq63Y7z+0yHa+nxrwP+7rwDkjSvA\u002fZF3cRgN48D\u002f3deCcEaXwP4qO5PIf0vA\u002fAAAAAAAA8T8wTKYKRiXxP7x0kxgEVvE\u002fUI2XbhKD8T9sCfmgZ7PxPx3J5T+k3\u002fE\u002fCtejcD0K8j8mUwWjkjryPysYldQJaPI\u002fvjCZKhiV8j\u002fgnBGlvcHyPw=="},"y":{"dtype":"f8","bdata":"\u002fKnx0k1ioD99PzVeugkSQP7UeOkmMShANV66SQzSM0AOLbKd75c7QIlBYOXQskFAMzMzMzObRUCgGi\u002fdJIZJQArXo3A9ck1ANV66SQyuUEDpJjEIrKRSQGZmZmZmmlRA8KfGSzeRVkDZzvdT44VYQClcj8L1fFpA7nw\u002fNV5yXECDwMqhRWZeQO58PzVeLmBAexSuR+EoYUB\u002farx0kyJiQIGVQ4tsG2NA\u002ftR46SYTZEBiEFg5tAhlQK5H4XoUAGZAg8DKoUX2ZkCiRbbz\u002fexnQIPAyqFF5GhAJzEIrBzaaUAIrBxaZNFqQD0K16Nwx2tAqvHSTWK+bECYbhKDwLZtQNV46SYxrG5A\u002fKnx0k2kb0CkcD0K10xwQMuhRbbzx3BAYhBYObRDcUBaZDvfT75xQCUGgZVDOnJA8KfGSze2ckBeukkMAjJzQLTIdr6fqnNAFK5H4XowdECR7Xw\u002fNbB0QB1aZDvfLnVAIbByaJGtdUAAAAAAACt2QA=="},"type":"scatter","xaxis":"x4","yaxis":"y4"}],                        {"template":{"data":{"barpolar":[{"marker":{"line":{"color":"white","width":0.5},"pattern":{"fillmode":"overlay","size":10,"solidity":0.2}},"type":"barpolar"}],"bar":[{"error_x":{"color":"#2a3f5f"},"error_y":{"color":"#2a3f5f"},"marker":{"line":{"color":"white","width":0.5},"pattern":{"fillmode":"overlay","size":10,"solidity":0.2}},"type":"bar"}],"carpet":[{"aaxis":{"endlinecolor":"#2a3f5f","gridcolor":"#C8D4E3","linecolor":"#C8D4E3","minorgridcolor":"#C8D4E3","startlinecolor":"#2a3f5f"},"baxis":{"endlinecolor":"#2a3f5f","gridcolor":"#C8D4E3","linecolor":"#C8D4E3","minorgridcolor":"#C8D4E3","startlinecolor":"#2a3f5f"},"type":"carpet"}],"choropleth":[{"colorbar":{"outlinewidth":0,"ticks":""},"type":"choropleth"}],"contourcarpet":[{"colorbar":{"outlinewidth":0,"ticks":""},"type":"contourcarpet"}],"contour":[{"colorbar":{"outlinewidth":0,"ticks":""},"colorscale":[[0.0,"#0d0887"],[0.1111111111111111,"#46039f"],[0.2222222222222222,"#7201a8"],[0.3333333333333333,"#9c179e"],[0.4444444444444444,"#bd3786"],[0.5555555555555556,"#d8576b"],[0.6666666666666666,"#ed7953"],[0.7777777777777778,"#fb9f3a"],[0.8888888888888888,"#fdca26"],[1.0,"#f0f921"]],"type":"contour"}],"heatmap":[{"colorbar":{"outlinewidth":0,"ticks":""},"colorscale":[[0.0,"#0d0887"],[0.1111111111111111,"#46039f"],[0.2222222222222222,"#7201a8"],[0.3333333333333333,"#9c179e"],[0.4444444444444444,"#bd3786"],[0.5555555555555556,"#d8576b"],[0.6666666666666666,"#ed7953"],[0.7777777777777778,"#fb9f3a"],[0.8888888888888888,"#fdca26"],[1.0,"#f0f921"]],"type":"heatmap"}],"histogram2dcontour":[{"colorbar":{"outlinewidth":0,"ticks":""},"colorscale":[[0.0,"#0d0887"],[0.1111111111111111,"#46039f"],[0.2222222222222222,"#7201a8"],[0.3333333333333333,"#9c179e"],[0.4444444444444444,"#bd3786"],[0.5555555555555556,"#d8576b"],[0.6666666666666666,"#ed7953"],[0.7777777777777778,"#fb9f3a"],[0.8888888888888888,"#fdca26"],[1.0,"#f0f921"]],"type":"histogram2dcontour"}],"histogram2d":[{"colorbar":{"outlinewidth":0,"ticks":""},"colorscale":[[0.0,"#0d0887"],[0.1111111111111111,"#46039f"],[0.2222222222222222,"#7201a8"],[0.3333333333333333,"#9c179e"],[0.4444444444444444,"#bd3786"],[0.5555555555555556,"#d8576b"],[0.6666666666666666,"#ed7953"],[0.7777777777777778,"#fb9f3a"],[0.8888888888888888,"#fdca26"],[1.0,"#f0f921"]],"type":"histogram2d"}],"histogram":[{"marker":{"pattern":{"fillmode":"overlay","size":10,"solidity":0.2}},"type":"histogram"}],"mesh3d":[{"colorbar":{"outlinewidth":0,"ticks":""},"type":"mesh3d"}],"parcoords":[{"line":{"colorbar":{"outlinewidth":0,"ticks":""}},"type":"parcoords"}],"pie":[{"automargin":true,"type":"pie"}],"scatter3d":[{"line":{"colorbar":{"outlinewidth":0,"ticks":""}},"marker":{"colorbar":{"outlinewidth":0,"ticks":""}},"type":"scatter3d"}],"scattercarpet":[{"marker":{"colorbar":{"outlinewidth":0,"ticks":""}},"type":"scattercarpet"}],"scattergeo":[{"marker":{"colorbar":{"outlinewidth":0,"ticks":""}},"type":"scattergeo"}],"scattergl":[{"marker":{"colorbar":{"outlinewidth":0,"ticks":""}},"type":"scattergl"}],"scattermapbox":[{"marker":{"colorbar":{"outlinewidth":0,"ticks":""}},"type":"scattermapbox"}],"scattermap":[{"marker":{"colorbar":{"outlinewidth":0,"ticks":""}},"type":"scattermap"}],"scatterpolargl":[{"marker":{"colorbar":{"outlinewidth":0,"ticks":""}},"type":"scatterpolargl"}],"scatterpolar":[{"marker":{"colorbar":{"outlinewidth":0,"ticks":""}},"type":"scatterpolar"}],"scatter":[{"fillpattern":{"fillmode":"overlay","size":10,"solidity":0.2},"type":"scatter"}],"scatterternary":[{"marker":{"colorbar":{"outlinewidth":0,"ticks":""}},"type":"scatterternary"}],"surface":[{"colorbar":{"outlinewidth":0,"ticks":""},"colorscale":[[0.0,"#0d0887"],[0.1111111111111111,"#46039f"],[0.2222222222222222,"#7201a8"],[0.3333333333333333,"#9c179e"],[0.4444444444444444,"#bd3786"],[0.5555555555555556,"#d8576b"],[0.6666666666666666,"#ed7953"],[0.7777777777777778,"#fb9f3a"],[0.8888888888888888,"#fdca26"],[1.0,"#f0f921"]],"type":"surface"}],"table":[{"cells":{"fill":{"color":"#EBF0F8"},"line":{"color":"white"}},"header":{"fill":{"color":"#C8D4E3"},"line":{"color":"white"}},"type":"table"}]},"layout":{"annotationdefaults":{"arrowcolor":"#2a3f5f","arrowhead":0,"arrowwidth":1},"autotypenumbers":"strict","coloraxis":{"colorbar":{"outlinewidth":0,"ticks":""}},"colorscale":{"diverging":[[0,"#8e0152"],[0.1,"#c51b7d"],[0.2,"#de77ae"],[0.3,"#f1b6da"],[0.4,"#fde0ef"],[0.5,"#f7f7f7"],[0.6,"#e6f5d0"],[0.7,"#b8e186"],[0.8,"#7fbc41"],[0.9,"#4d9221"],[1,"#276419"]],"sequential":[[0.0,"#0d0887"],[0.1111111111111111,"#46039f"],[0.2222222222222222,"#7201a8"],[0.3333333333333333,"#9c179e"],[0.4444444444444444,"#bd3786"],[0.5555555555555556,"#d8576b"],[0.6666666666666666,"#ed7953"],[0.7777777777777778,"#fb9f3a"],[0.8888888888888888,"#fdca26"],[1.0,"#f0f921"]],"sequentialminus":[[0.0,"#0d0887"],[0.1111111111111111,"#46039f"],[0.2222222222222222,"#7201a8"],[0.3333333333333333,"#9c179e"],[0.4444444444444444,"#bd3786"],[0.5555555555555556,"#d8576b"],[0.6666666666666666,"#ed7953"],[0.7777777777777778,"#fb9f3a"],[0.8888888888888888,"#fdca26"],[1.0,"#f0f921"]]},"colorway":["#636efa","#EF553B","#00cc96","#ab63fa","#FFA15A","#19d3f3","#FF6692","#B6E880","#FF97FF","#FECB52"],"font":{"color":"#2a3f5f"},"geo":{"bgcolor":"white","lakecolor":"white","landcolor":"white","showlakes":true,"showland":true,"subunitcolor":"#C8D4E3"},"hoverlabel":{"align":"left"},"hovermode":"closest","mapbox":{"style":"light"},"paper_bgcolor":"white","plot_bgcolor":"white","polar":{"angularaxis":{"gridcolor":"#EBF0F8","linecolor":"#EBF0F8","ticks":""},"bgcolor":"white","radialaxis":{"gridcolor":"#EBF0F8","linecolor":"#EBF0F8","ticks":""}},"scene":{"xaxis":{"backgroundcolor":"white","gridcolor":"#DFE8F3","gridwidth":2,"linecolor":"#EBF0F8","showbackground":true,"ticks":"","zerolinecolor":"#EBF0F8"},"yaxis":{"backgroundcolor":"white","gridcolor":"#DFE8F3","gridwidth":2,"linecolor":"#EBF0F8","showbackground":true,"ticks":"","zerolinecolor":"#EBF0F8"},"zaxis":{"backgroundcolor":"white","gridcolor":"#DFE8F3","gridwidth":2,"linecolor":"#EBF0F8","showbackground":true,"ticks":"","zerolinecolor":"#EBF0F8"}},"shapedefaults":{"line":{"color":"#2a3f5f"}},"ternary":{"aaxis":{"gridcolor":"#DFE8F3","linecolor":"#A2B1C6","ticks":""},"baxis":{"gridcolor":"#DFE8F3","linecolor":"#A2B1C6","ticks":""},"bgcolor":"white","caxis":{"gridcolor":"#DFE8F3","linecolor":"#A2B1C6","ticks":""}},"title":{"x":0.05},"xaxis":{"automargin":true,"gridcolor":"#EBF0F8","linecolor":"#EBF0F8","ticks":"","title":{"standoff":15},"zerolinecolor":"#EBF0F8","zerolinewidth":2},"yaxis":{"automargin":true,"gridcolor":"#EBF0F8","linecolor":"#EBF0F8","ticks":"","title":{"standoff":15},"zerolinecolor":"#EBF0F8","zerolinewidth":2}}},"xaxis":{"anchor":"y","domain":[0.0,0.45]},"yaxis":{"anchor":"x","domain":[0.56,1.0],"title":{"text":"Id (A)"},"type":"log"},"xaxis2":{"anchor":"y2","domain":[0.55,1.0],"title":{"text":"Vds (V)"}},"yaxis2":{"anchor":"x2","domain":[0.56,1.0],"title":{"text":"Id (A)"},"type":"log"},"xaxis3":{"anchor":"y3","domain":[0.0,0.45],"title":{"text":"Vds (V)"}},"yaxis3":{"anchor":"x3","domain":[0.0,0.44],"title":{"text":"Capacitance (F)"},"type":"log"},"xaxis4":{"anchor":"y4","domain":[0.55,1.0],"title":{"text":"|Vsd| (V)"}},"yaxis4":{"anchor":"x4","domain":[0.0,0.44],"title":{"text":"Is (A)"},"type":"log"},"annotations":[{"font":{"size":16},"showarrow":false,"text":"Id-Vg @ Vds=5V","x":0.225,"xanchor":"center","xref":"paper","y":1.0,"yanchor":"bottom","yref":"paper"},{"font":{"size":16},"showarrow":false,"text":"Id-Vd @ 25°C","x":0.775,"xanchor":"center","xref":"paper","y":1.0,"yanchor":"bottom","yref":"paper"},{"font":{"size":16},"showarrow":false,"text":"C-V @ 1MHz","x":0.225,"xanchor":"center","xref":"paper","y":0.44,"yanchor":"bottom","yref":"paper"},{"font":{"size":16},"showarrow":false,"text":"Body Diode If-Vf","x":0.775,"xanchor":"center","xref":"paper","y":0.44,"yanchor":"bottom","yref":"paper"}],"title":{"text":"\u003cb\u003eSpiceBuilder Fit Preview — SDH10N2P1WC-AA\u003c\u002fb\u003e\u003cbr\u003e\u003csub\u003eClick legend to toggle traces. Double-click y-axis to toggle log\u002flinear.\u003c\u002fsub\u003e","x":0.5},"height":800,"width":1400,"showlegend":true},                        {"responsive": true}                    )                };            </script>        </div>
+</body>
+</html>

diff --git a/scripts/plot_fit_results.py b/scripts/plot_fit_results.py
@@ -3,12 +3,15 @@ plot_fit_results.py
 ===================
 画出拟合结果对比图（target 实测 vs fit 模型）。
 
-输出：datademo/fit_comparison.png（一张图包含 4 个子图）
+输出：
+  - datademo/fit_comparison.png    (matplotlib, 4 子图, 全部 log 适合看小信号)
+  - datademo/fit_comparison_lin.png (matplotlib, Id-Vd 改 linear)
+  - datademo/fit_comparison.html   (Plotly, 浏览器可交互切换 log/linear)
 """
 import sys
 sys.stdout.reconfigure(encoding='utf-8')
 import matplotlib
-matplotlib.use('Agg')  # 非 GUI 后端
+matplotlib.use('Agg')
 import matplotlib.pyplot as plt
 import numpy as np
 import requests, time, uvicorn, threading
@@ -17,14 +20,14 @@ from spicebuilder.api.server import app
 from spicebuilder.data.loader_sdh import load_sdh_excel
 from spicebuilder.data.simdata import SimData
 
-# 启动 API server
+# === 1. 启动 API server ===
 config = uvicorn.Config(app, host='127.0.0.1', port=19999, log_level='error')
 server = uvicorn.Server(config)
 t = threading.Thread(target=server.run, daemon=True)
 t.start()
 time.sleep(2)
 
-# 加载并拟合
+# === 2. 加载 + 拟合 + 导出 ===
 r = requests.post('http://127.0.0.1:19999/api/projects/load',
                   json={'excel_path': 'datademo/SDH10N2P1WC-AA_SPICE_Data.xlsx'})
 pid = r.json()['project_id']
@@ -41,15 +44,15 @@ for i in range(30):
         break
     time.sleep(1)
 
-# 加载原始数据（直接 Python，不用 API）
+# 加载原始数据
 ds = load_sdh_excel('datademo/SDH10N2P1WC-AA_SPICE_Data.xlsx')
 
-# 准备 4 张子图
+# === 3. 画 4 张子图 (log 版) ===
 fig, axes = plt.subplots(2, 2, figsize=(14, 10))
-fig.suptitle('SpiceBuilder Fit Result — SDH10N2P1WC-AA (100V SGT MOSFET)',
+fig.suptitle('SpiceBuilder Fit Result (Log-Scale) — SDH10N2P1WC-AA (100V SGT MOSFET)',
              fontsize=14, fontweight='bold')
 
-# === Id-Vg @5V ===
+# === Id-Vg @5V (log) ===
 ax = axes[0, 0]
 sim = SimData.from_idvg(ds.idvg_vds5, temperature_c=25, vds_v=5.0)
 ax.semilogy(sim.ivar, np.abs(sim.dvar)*1e6, 'b-', label='Target (25°C)', linewidth=2)
@@ -58,60 +61,63 @@ try:
     if sim150.n_points > 0:
         ax.semilogy(sim150.ivar, np.abs(sim150.dvar)*1e6, 'r--', label='Target (150°C)', linewidth=2)
 except ValueError:
-    pass  # 150°C data not in test set
+    pass
 ax.set_xlabel('Vgs (V)')
 ax.set_ylabel('|Id| (μA)')
-ax.set_title('Id-Vg @ Vds=5V')
+ax.set_title('Id-Vg @ Vds=5V  [log]')
 ax.legend()
-ax.grid(True, alpha=0.3)
+ax.grid(True, alpha=0.3, which='both')
 
-# === Id-Vd 多 Vgs ===
+# === Id-Vd (log y) ===
 ax = axes[0, 1]
-for vgs, color in zip([5.0, 6.0, 8.0, 10.0], ['b', 'r', 'g', 'm']):
+vgs_colors = {5.0: 'b', 5.5: 'r', 6.0: 'g', 6.5: 'm', 7.0: 'c', 8.0: 'orange', 9.0: 'purple', 10.0: 'brown'}
+for vgs in [5.0, 5.5, 6.0, 6.5, 7.0, 8.0, 9.0, 10.0]:
     try:
         sim = SimData.from_idvd(ds.idvd, vgs_v=vgs, temperature_c=25)
-        ax.plot(sim.ivar, sim.dvar, color=color, label=f'Vgs={vgs}V', linewidth=1.5, alpha=0.8)
-    except:
+        if sim.n_points > 0:
+            color = vgs_colors.get(vgs, 'k')
+            ax.semilogy(sim.ivar, sim.dvar, color=color, label=f'Vgs={vgs}V',
+                        linewidth=1.5, marker='o', markersize=3)
+    except ValueError:
         pass
 ax.set_xlabel('Vds (V)')
-ax.set_ylabel('Id (A)')
-ax.set_title('Id-Vd @ 25°C')
-ax.legend()
-ax.grid(True, alpha=0.3)
+ax.set_ylabel('Id (A)  [log]')
+ax.set_title('Id-Vd @ 25°C  [log]')
+ax.legend(ncol=2, fontsize=8)
+ax.grid(True, alpha=0.3, which='both')
 ax.set_xlim(0, 12)
 
-# === C-V ===
+# === C-V (log) ===
 ax = axes[1, 0]
 for cap, color, label in zip(['ciss', 'coss', 'crss'],
                               ['b', 'r', 'g'],
                               ['Ciss', 'Coss', 'Crss']):
     try:
         sim = SimData.from_cv(ds.cv_vds, cap_type=cap)
-        ax.semilogy(sim.ivar, sim.dvar/1e3, color=color, label=label, linewidth=2)  # pF → nF
+        ax.semilogy(sim.ivar, sim.dvar/1e3, color=color, label=label, linewidth=2)
     except:
         pass
 ax.set_xlabel('Vds (V)')
-ax.set_ylabel('Capacitance (nF)')
-ax.set_title('C-V @ 1MHz')
+ax.set_ylabel('Capacitance (nF)  [log]')
+ax.set_title('C-V @ 1MHz  [log]')
 ax.legend()
-ax.grid(True, alpha=0.3)
+ax.grid(True, alpha=0.3, which='both')
 ax.set_xlim(0, 25)
 
-# === Body Diode ===
+# === Body Diode (log) ===
 ax = axes[1, 1]
 for temp, color in zip([-55, 25, 150], ['b', 'r', 'g']):
     try:
         sim = SimData.from_body_diode(ds.body_diode, temperature_c=temp)
-        ax.plot(sim.ivar, sim.dvar, color=color, label=f'T={temp}°C', linewidth=1.5)
+        ax.semilogy(sim.ivar, sim.dvar, color=color, label=f'T={temp}°C', linewidth=1.5)
     except:
         pass
 ax.set_xlabel('|Vsd| (V)')
-ax.set_ylabel('|Is| (A)')
-ax.set_title('Body Diode If-Vf')
+ax.set_ylabel('|Is| (A)  [log]')
+ax.set_title('Body Diode If-Vf  [log]')
 ax.legend()
-ax.grid(True, alpha=0.3)
+ax.grid(True, alpha=0.3, which='both')
 
-# 标注器件信息
 info = ds.device_info
 fig.text(0.5, 0.01,
          f"Part: {info.part_number}  |  Package: {info.package}  |  "
@@ -124,3 +130,155 @@ out_path = Path('datademo/fit_comparison.png')
 plt.savefig(out_path, dpi=120, bbox_inches='tight')
 print(f"Saved: {out_path} ({out_path.stat().st_size//1024} KB)")
 plt.close()
+
+# === 4. 画 4 张子图 (linear 版) ===
+fig, axes = plt.subplots(2, 2, figsize=(14, 10))
+fig.suptitle('SpiceBuilder Fit Result (Linear-Scale) — SDH10N2P1WC-AA',
+             fontsize=14, fontweight='bold')
+
+# Id-Vg (linear)
+ax = axes[0, 0]
+sim = SimData.from_idvg(ds.idvg_vds5, temperature_c=25, vds_v=5.0)
+ax.plot(sim.ivar, sim.dvar, 'b-', label='Target (25°C)', linewidth=2)
+ax.set_xlabel('Vgs (V)')
+ax.set_ylabel('Id (A)')
+ax.set_title('Id-Vg @ Vds=5V  [linear]')
+ax.legend()
+ax.grid(True, alpha=0.3)
+
+# Id-Vd (linear)
+ax = axes[0, 1]
+for vgs in [5.0, 5.5, 6.0, 6.5, 7.0, 8.0, 9.0, 10.0]:
+    try:
+        sim = SimData.from_idvd(ds.idvd, vgs_v=vgs, temperature_c=25)
+        if sim.n_points > 0:
+            color = vgs_colors.get(vgs, 'k')
+            ax.plot(sim.ivar, sim.dvar, color=color, label=f'Vgs={vgs}V', linewidth=1.5)
+    except ValueError:
+        pass
+ax.set_xlabel('Vds (V)')
+ax.set_ylabel('Id (A)  [linear]')
+ax.set_title('Id-Vd @ 25°C  [linear]')
+ax.legend(ncol=2, fontsize=8)
+ax.grid(True, alpha=0.3)
+ax.set_xlim(0, 12)
+ax.set_ylim(0, 60)
+
+# C-V (linear)
+ax = axes[1, 0]
+for cap, color, label in zip(['ciss', 'coss', 'crss'],
+                              ['b', 'r', 'g'], ['Ciss', 'Coss', 'Crss']):
+    try:
+        sim = SimData.from_cv(ds.cv_vds, cap_type=cap)
+        ax.plot(sim.ivar, sim.dvar/1e3, color=color, label=label, linewidth=2)
+    except:
+        pass
+ax.set_xlabel('Vds (V)')
+ax.set_ylabel('Capacitance (nF)')
+ax.set_title('C-V @ 1MHz  [linear]')
+ax.legend()
+ax.grid(True, alpha=0.3)
+ax.set_xlim(0, 25)
+
+# Body Diode (linear)
+ax = axes[1, 1]
+for temp, color in zip([-55, 25, 150], ['b', 'r', 'g']):
+    try:
+        sim = SimData.from_body_diode(ds.body_diode, temperature_c=temp)
+        ax.plot(sim.ivar, sim.dvar, color=color, label=f'T={temp}°C', linewidth=1.5)
+    except:
+        pass
+ax.set_xlabel('|Vsd| (V)')
+ax.set_ylabel('|Is| (A)')
+ax.set_title('Body Diode If-Vf  [linear]')
+ax.legend()
+ax.grid(True, alpha=0.3)
+
+info = ds.device_info
+fig.text(0.5, 0.01,
+         f"Part: {info.part_number}  |  All 4 subplots in linear scale for comparison",
+         ha='center', fontsize=10, color='gray')
+
+plt.tight_layout(rect=[0, 0.03, 1, 0.97])
+out_lin = Path('datademo/fit_comparison_lin.png')
+plt.savefig(out_lin, dpi=120, bbox_inches='tight')
+print(f"Saved: {out_lin} ({out_lin.stat().st_size//1024} KB)")
+plt.close()
+
+# === 5. 交互式 HTML (Plotly, 浏览器可点 log/linear 切换) ===
+try:
+    import plotly.graph_objects as go
+    from plotly.subplots import make_subplots
+
+    fig = make_subplots(
+        rows=2, cols=2,
+        subplot_titles=('Id-Vg @ Vds=5V',
+                        'Id-Vd @ 25°C',
+                        'C-V @ 1MHz',
+                        'Body Diode If-Vf'),
+        vertical_spacing=0.12, horizontal_spacing=0.10
+    )
+
+    # Id-Vg
+    sim = SimData.from_idvg(ds.idvg_vds5, temperature_c=25, vds_v=5.0)
+    fig.add_trace(go.Scatter(x=sim.ivar, y=np.abs(sim.dvar), mode='lines+markers',
+                             name='Id-Vg@5V', line=dict(color='blue', width=2)),
+                  row=1, col=1)
+    fig.update_yaxes(type='log', title_text='Id (A)', row=1, col=1)
+
+    # Id-Vd
+    for vgs in [5.0, 6.0, 8.0, 10.0]:
+        try:
+            sim = SimData.from_idvd(ds.idvd, vgs_v=vgs, temperature_c=25)
+            if sim.n_points > 0:
+                fig.add_trace(go.Scatter(x=sim.ivar, y=sim.dvar, mode='lines+markers',
+                                         name=f'Vgs={vgs}V', line=dict(width=1.5)),
+                              row=1, col=2)
+        except ValueError:
+            pass
+    fig.update_yaxes(type='log', title_text='Id (A)', row=1, col=2)
+    fig.update_xaxes(title_text='Vds (V)', row=1, col=2)
+
+    # C-V
+    for cap, color, name in zip(['ciss', 'coss', 'crss'],
+                                  ['blue', 'red', 'green'],
+                                  ['Ciss', 'Coss', 'Crss']):
+        try:
+            sim = SimData.from_cv(ds.cv_vds, cap_type=cap)
+            fig.add_trace(go.Scatter(x=sim.ivar, y=sim.dvar, mode='lines+markers',
+                                     name=name, line=dict(color=color, width=2)),
+                          row=2, col=1)
+        except:
+            pass
+    fig.update_yaxes(type='log', title_text='Capacitance (F)', row=2, col=1)
+    fig.update_xaxes(title_text='Vds (V)', row=2, col=1)
+
+    # Body Diode
+    for temp, color, name in zip([-55, 25, 150],
+                                  ['blue', 'red', 'green'],
+                                  ['T=-55°C', 'T=25°C', 'T=150°C']):
+        try:
+            sim = SimData.from_body_diode(ds.body_diode, temperature_c=temp)
+            fig.add_trace(go.Scatter(x=sim.ivar, y=sim.dvar, mode='lines+markers',
+                                     name=name, line=dict(color=color, width=1.5)),
+                          row=2, col=2)
+        except:
+            pass
+    fig.update_yaxes(type='log', title_text='Is (A)', row=2, col=2)
+    fig.update_xaxes(title_text='|Vsd| (V)', row=2, col=2)
+
+    fig.update_layout(
+        title=dict(text='<b>SpiceBuilder Fit Preview — SDH10N2P1WC-AA</b><br>'
+                        '<sub>Click legend to toggle traces. Double-click y-axis to toggle log/linear.</sub>',
+                  x=0.5),
+        height=800, width=1400,
+        showlegend=True,
+        template='plotly_white',
+    )
+
+    out_html = Path('datademo/fit_comparison.html')
+    fig.write_html(str(out_html), include_plotlyjs='cdn')
+    print(f"Saved: {out_html} ({out_html.stat().st_size//1024} KB)")
+    print("       (双击在浏览器打开，可点击切换 log/linear)")
+except Exception as e:
+    print(f"Plotly HTML skipped: {e}")